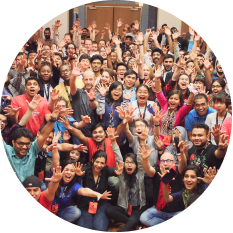
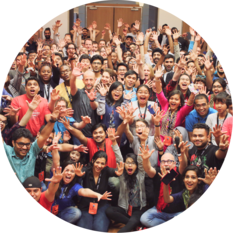
add updated pictures and paragraph

diff --git a/src/pages/PageHome.vue b/src/pages/PageHome.vue
@@ -33,7 +33,10 @@
     </div>
     <div class="home__intro" v-else>
       <h1>{{ fluent('home_welcome') }}</h1>
-      <img src="@/assets/images/people-dots.png" />
+      <img
+        src="@/assets/images/people-dots.png"
+        srcset="@/assets/images/people-dots@2x.png 2x"
+      />
       <p>{{ fluent('home_welcome', 'description-public') }}</p>
       <ExternalButtonLink
         href="/_/login"
@@ -59,6 +62,12 @@
         <p v-html="card.description"></p>
       </Card>
     </CardRow>
+    <p class="home__paragraph" v-else>
+      {{ fluent('home_paragraph') }}
+      <a target="_blank" rel="noopener noreferrer" :href="globalLinks.iamFaq">
+        {{ fluent('home_paragraph', 'link') }}
+      </a>
+    </p>
   </main>
 </template>
 
@@ -170,9 +179,15 @@ export default {
 .home__intro p:last-child {
   margin-bottom: 0;
 }
+
+.home__paragraph {
+  padding: 0em 3em 3em;
+  color: var(--gray-50);
+}
+
 @media (min-width: 50em) {
   .home__intro {
-    grid-template-columns: 3fr 2fr;
+    grid-template-columns: 1fr 1fr;
     grid-gap: 0 2em;
     width: 100%;
     padding: 4em 4em 2em;
@@ -184,6 +199,9 @@ export default {
   .home__intro > img {
     grid-column: 2;
     grid-row: 1/4;
+  }
+  .home__paragraph {
+    max-width: 50%;
   }
 }
 </style>

diff --git a/src/components/ui/Footer.vue b/src/components/ui/Footer.vue
@@ -3,7 +3,10 @@
     <section class="footer__contribute" v-if="!loggedIn">
       <h1>{{ fluent('contribute_header') }}</h1>
       <div class="footer__contribute-img">
-        <img src="@/assets/images/crowd.png" />
+        <img
+          src="@/assets/images/crowd.png"
+          srcset="@/assets/images/crowd@2x.png 2x"
+        />
       </div>
       <p>{{ fluent('contribute_text') }}</p>
       <ExternalButtonLink
@@ -56,6 +59,9 @@ export default {
     ExternalButtonLink,
   },
   computed: {
+    loggedIn() {
+      return this.$store.state.scope.isLoggedIn;
+    },
     links() {
       return [
         {

diff --git a/src/components/_mixins/LinksMixin.vue b/src/components/_mixins/LinksMixin.vue
@@ -17,6 +17,7 @@ export default {
         legal: 'https://www.mozilla.org/en-US/legal',
         privacy: 'https://www.mozilla.org/en-US/privacy/',
         hrEmail: 'mailto:peopleops@mozilla.com',
+        iamFaq: 'https://wiki.mozilla.org/IAM/Frequently_asked_questions',
       },
     };
   },
